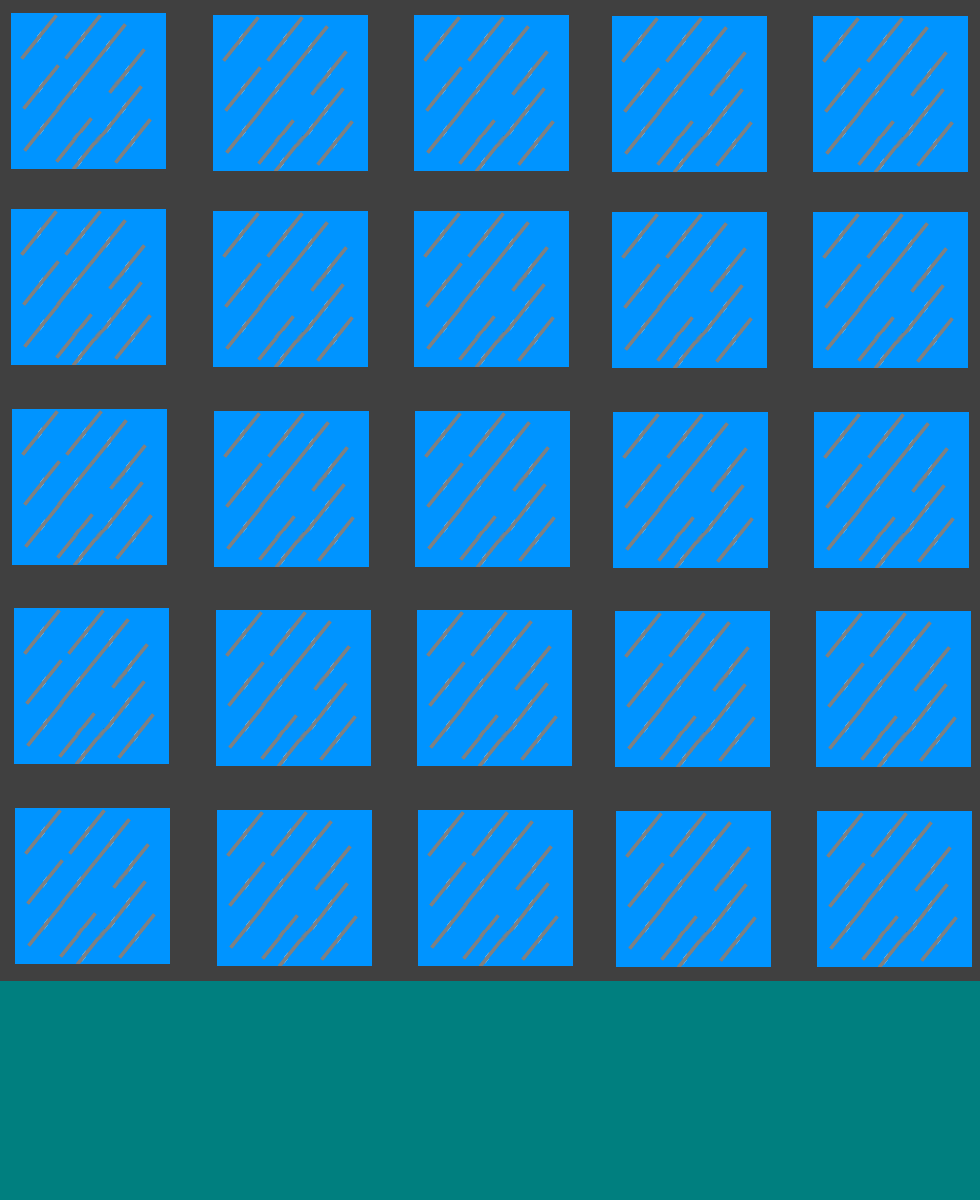
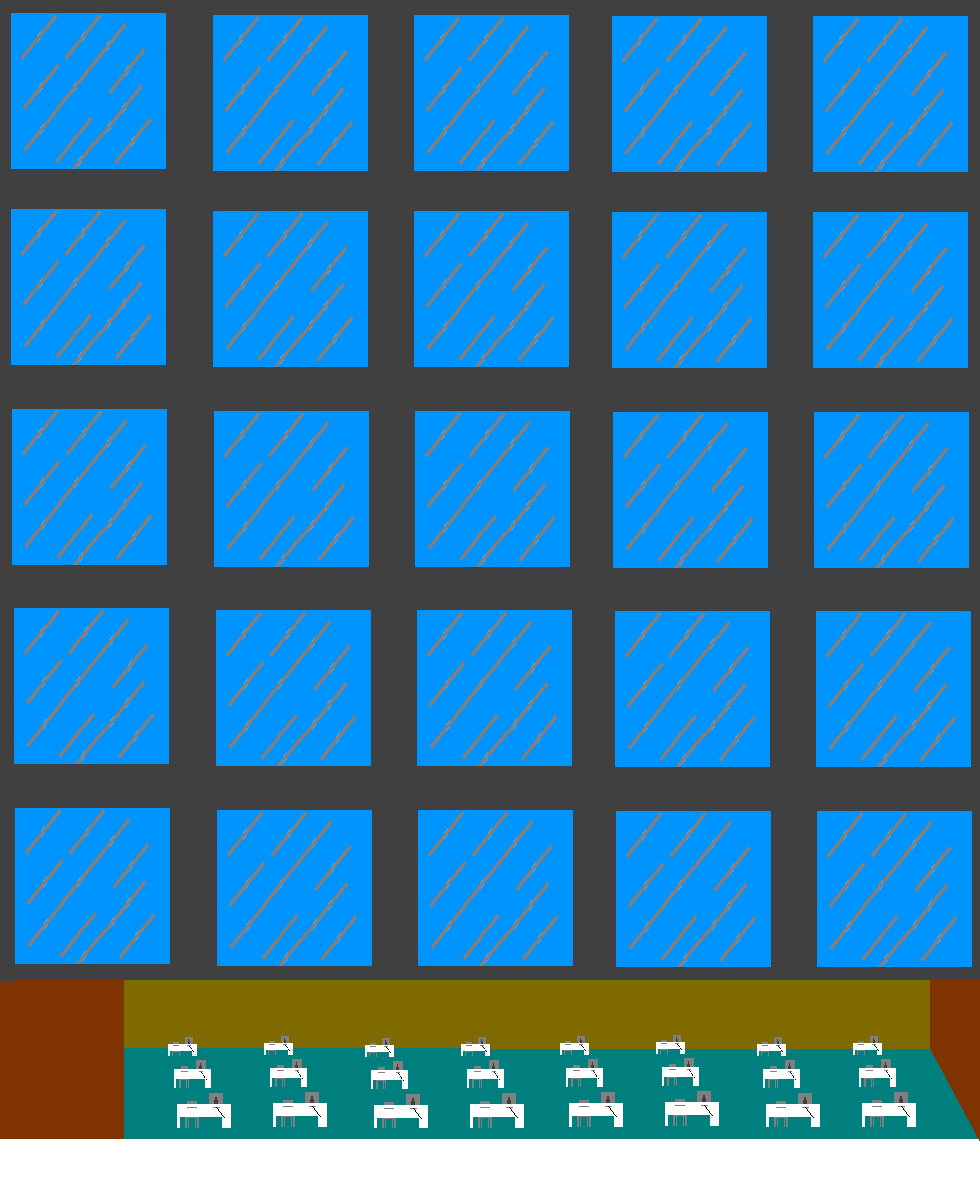
office + coffee mug now real world scale

Changed region(s): [[0.0, 0.8017, 1.0, 1.0]]

diff --git a/resources/js/textures.js b/resources/js/textures.js
@@ -18,7 +18,9 @@ main.textures = function (game) {
     game.load.image('empty-slot', 'resources/assets/items/empty-slot.png');
     game.load.image('inventory-button', 'resources/assets/items/inventory-button.png');
     game.load.image('inventory-case', 'resources/assets/items/inventory-case.png');
+    game.load.image('coffee-mug-ingame', 'resources/assets/backgrounds/coffee-mug-ingame.png');
     game.load.image('coffee-mug', 'resources/assets/items/coffee-mug.png');
+    game.load.image('coffee-mug-single', 'resources/assets/backgrounds/coffee-mug-single.png');
     // Chars
     game.load.spritesheet('main-char', 'resources/assets/chars/main-char.png', 22, 50);
     game.load.spritesheet('floor-one-boss', 'resources/assets/chars/npc-blue-tie/floor-one-boss.png', 22, 50);

diff --git a/resources/js/player.js b/resources/js/player.js
@@ -27,7 +27,7 @@ main.player = function (game) {
     items = game.add.group();
     items.enableBody = true;
 
-    coffeeMugItem = items.create(500, game.world.height - 100, 'coffee-mug');
+    coffeeMugItem = items.create(1013, game.world.height - 46, 'coffee-mug-single');
     coffeeMugItem.body.immovable = true;
   }
 
